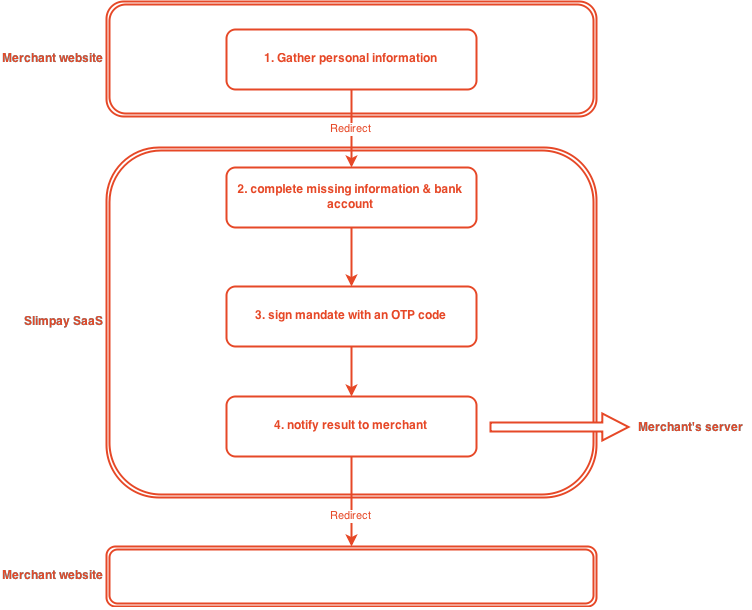
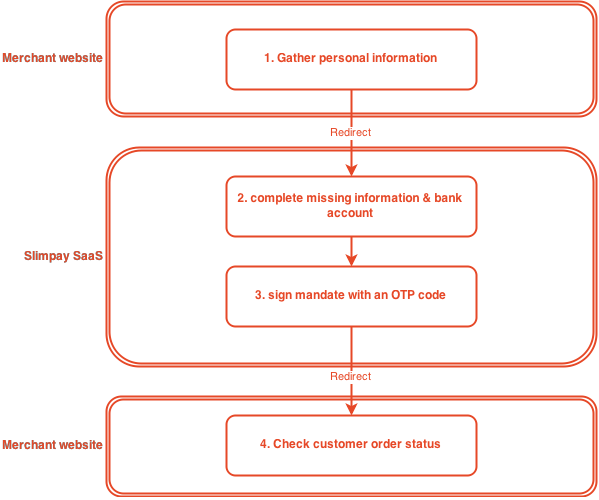
add direct debit diagram + main use cases description

Changed region(s): [[0.0, 0.0, 1.0, 1.0]]

diff --git a/docs/index.md b/docs/index.md
@@ -2,25 +2,80 @@
 
 ## Introduction
 
-This documentation gives a technical overview of the Slimpay infrastructure allowing you to perform direct debit, mandate signature and more...
+This documentation gives a technical overview of the Slimpay infrastructure and API allowing you to perform direct debit, mandate signature and more...
 
 ## Slimpay resources
 
 * **Merchant** uses SlimPay EPT to collect signed mandates from its customers and manage its payment orders. The merchant is the creditor in the payment transaction.
 * **Customer** or **User** uses the solution to sign a mandate for a specific merchant. He is considered as a debtor in the payment transaction and a customer of the merchant.
-* **EPT** stands for Electronic Payment Terminal. SlimPay provides an EPT for mandate signatures and direct debit payments. 
+* **API** SlimPay provides a complete RESTful HATEOAS API for mandate signatures and direct debit payments. 
 
 ## Sequence diagrams
 
-The merchant installs SlimPay EPT on its web server. The module integrates as easily as a credit card EPT with the merchant systems. 
+SlimPay API manages the payment process on behalf of the merchant. It provides an online signature in the framework of SEPA (Single Euro Payment Area). Besides, it offers an evaluation of fraud risk for each transaction and manages an execution of payment orders upon request.
 
-SlimPay EPT will handle the debiting of customers holding a bank account in Europe. Once a mandate has been signed, SlimPay debits the customer upon request of the merchant. The debited amounts can be paid directly to the merchant's account in the bank of his choice. 
+SlimPay API is dedicated to the online merchants whose customers make repetitive or recurrent payments such as for contract subscription. 
+
+SlimPay API will handle the debiting of customers holding a bank account in Europe. Once a mandate has been signed, SlimPay debits the customer upon request of the merchant. The debited amounts can be paid directly to the merchant's account in the bank of his choice. 
 
 The figure below summarizes the signature process and the relations between Customer/Merchant/SlimPay:
 
 ![Screenshot](img/slimpay-flow.png)
 
+## Main use cases
 
+### Direct debit payment
+
+The figure below describes the signature Direct Debit Payment process:
+
+![Screenshot](img/direct-debit-sequence.png)
+
+There are 3 variants of this use case:
+
+* **Signature only**
+
+    For this type of request, the merchant has to send a request for signature only. The EPT performs a mandate signature but no direct debit is made. The merchant is in charge of generating the payment orders and sending to SlimPay independently of the signature process. Generally, the merchant transfers regularly the payment order files to SlimPay via a secure way such as SFTP (Secure File Transfer Protocol). The format of the files should be compliant with the format required by SlimPay. 
+
+* **Signature + Immediate single direct debit**
+
+    For this type of request, the merchant has to provide two more mandatory data which are: amount to debit and the date on which the merchant intends to debit. Once the mandate is signed, a debit order is generated by SlimPay and will be executed at the given date (or the earliest date if the delay is too short). This type of request is considered as a mandate signature request combined with a debit order (collectPayment). 
+
+* **Signature + Payment plan (Recurrent debit)**
+
+    For this type of request, the merchant has to provide three additional mandatory data fields:
+
+    - frequency of payment plan (for example: monthly, yearly)
+    - date on which the merchant intends to start the first debit amount to debit
+
+    Once the signature has been carried out successfully, the payment plan will be generated and executed automatically according to the data provided previously by the merchant.
+
+    To stop the payment plan, the merchant has to transfer the un-subscription file to SlimPay via SFTP. The format of this file should be compliant with the format required by SlimPay. 
+
+### Direct debit payment combined with card payment
+
+This solution is dedicated to merchants intending to debit their customers by credit card for the first payment instead of a direct debit, the following payments being done in direct debit mode, or the merchants wishing to propose card payments for customers not having a bank account within SEPA.
+
+The figure below describes the signature Direct Debit combined with Card Payment process:
+
+![Screenshot](img/direct-debit-card-sequence.png)
+
+There are 2 variants of this use case:
+
+* **Signature + Immediate card payment (Authorization or Payment)**
+
+    The signature process in this case is slightly different from the previous one.  The merchant can choose the type of card payment operation between **_authorization_** and **_payment_**. The **_authorization_** type will only generate an authorization to debit a requested amount; no real debit will be made. On the other hand the **_payment_** type will generate a real debit. 
+
+    According to Figure 1, at the end of the second step a card authorization request is sent. If the response is positive, the customer continues to the next step. If not, the process is stopped and the customer is redirected to the merchant's website. If the merchant chooses the payment operation, a request for debit will be sent once the signature has been carried out successfully.
+    The authorization of card payment is transferred to the merchant with the transaction data. The execution of these card transactions can be done by SlimPay or by the merchant upon request. 
+
+* **Signature + Multiple Card payment (Alias)**
+
+    The idea here is to provide an alternative to the Direct Debit for the customers who do not have an account in the SEPA or have an account in a bank that is not SEPA “Reachable”. This feature does actually not need a separate request type. It is fully compatible with the Direct Debit requests described in chapter 2.2. SlimPay automatically detects that a SEPA mandate cannot be signed and redirects the customer to the credit card page. A credit card alias is created and stored. Any future debits sent by the merchant will automatically be processed using this alias. To benefit from this feature the merchant only needs to ask for activation by SlimPay and provide the same mandatory data as the one described in Section 2.2..
+
+### Card payment only
+
+Merchants generally use this solution as a complement to a subscription paid by direct debits for payment of one-time options or for credit recovering in case of direct debit returns.
+The request type is “CardPayment” and the only mandatory information provided by the merchant  is the first name and last name of the customer.
 
 ## Where do I start?
 
